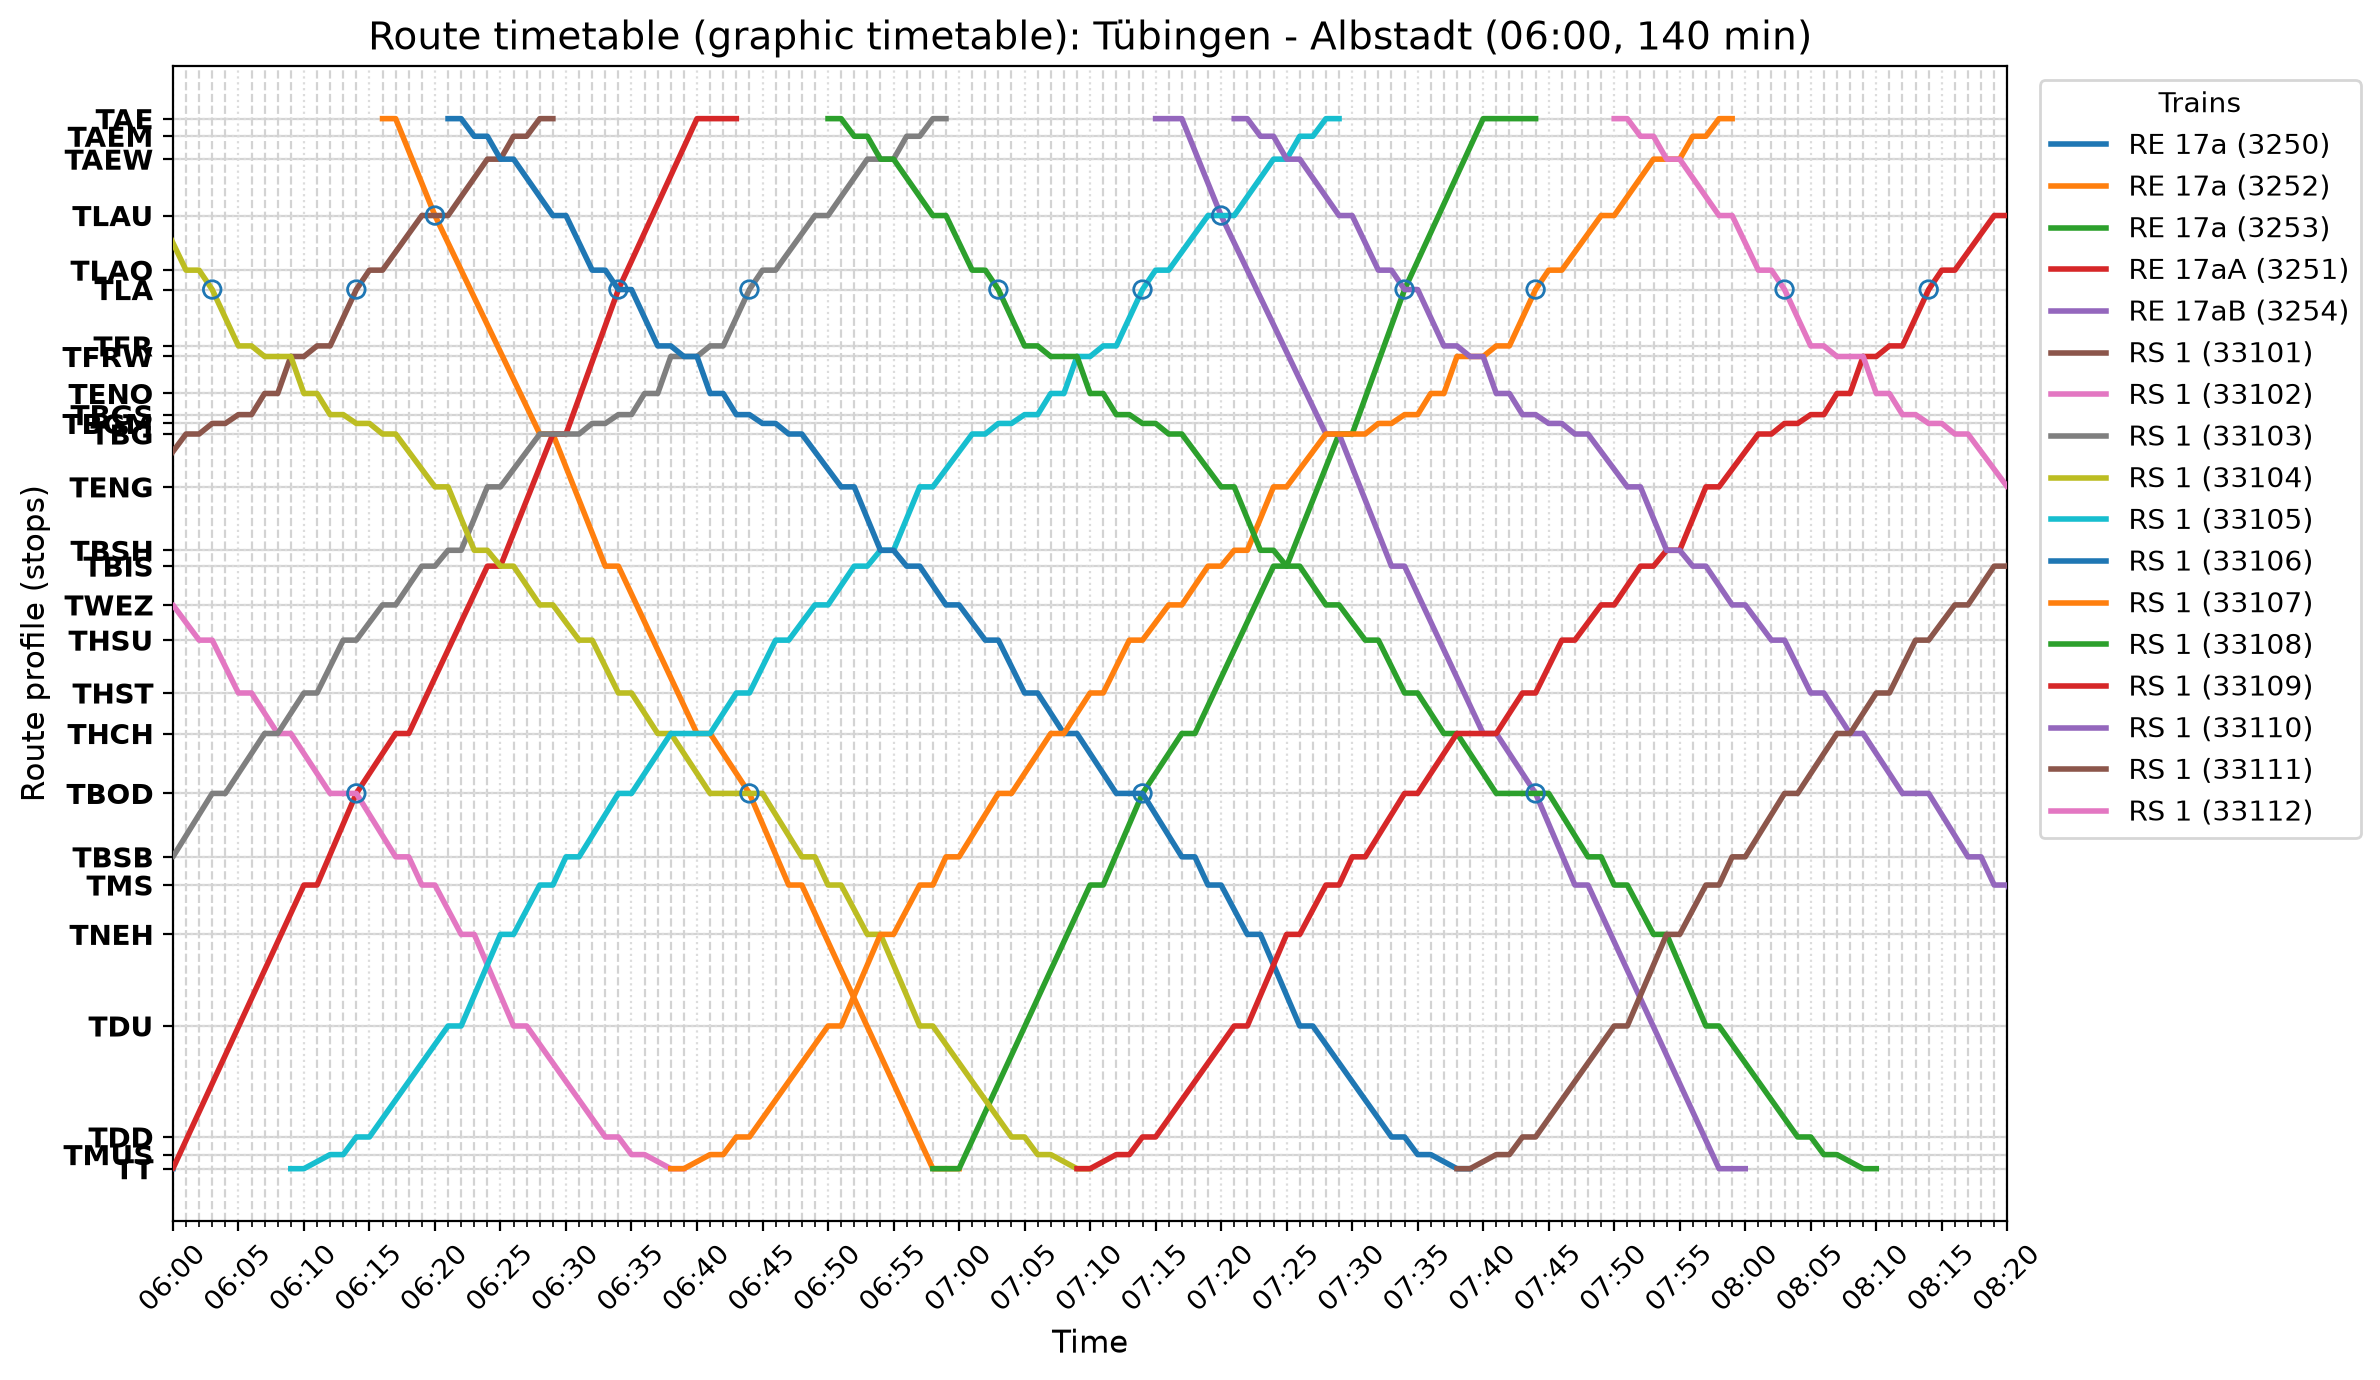
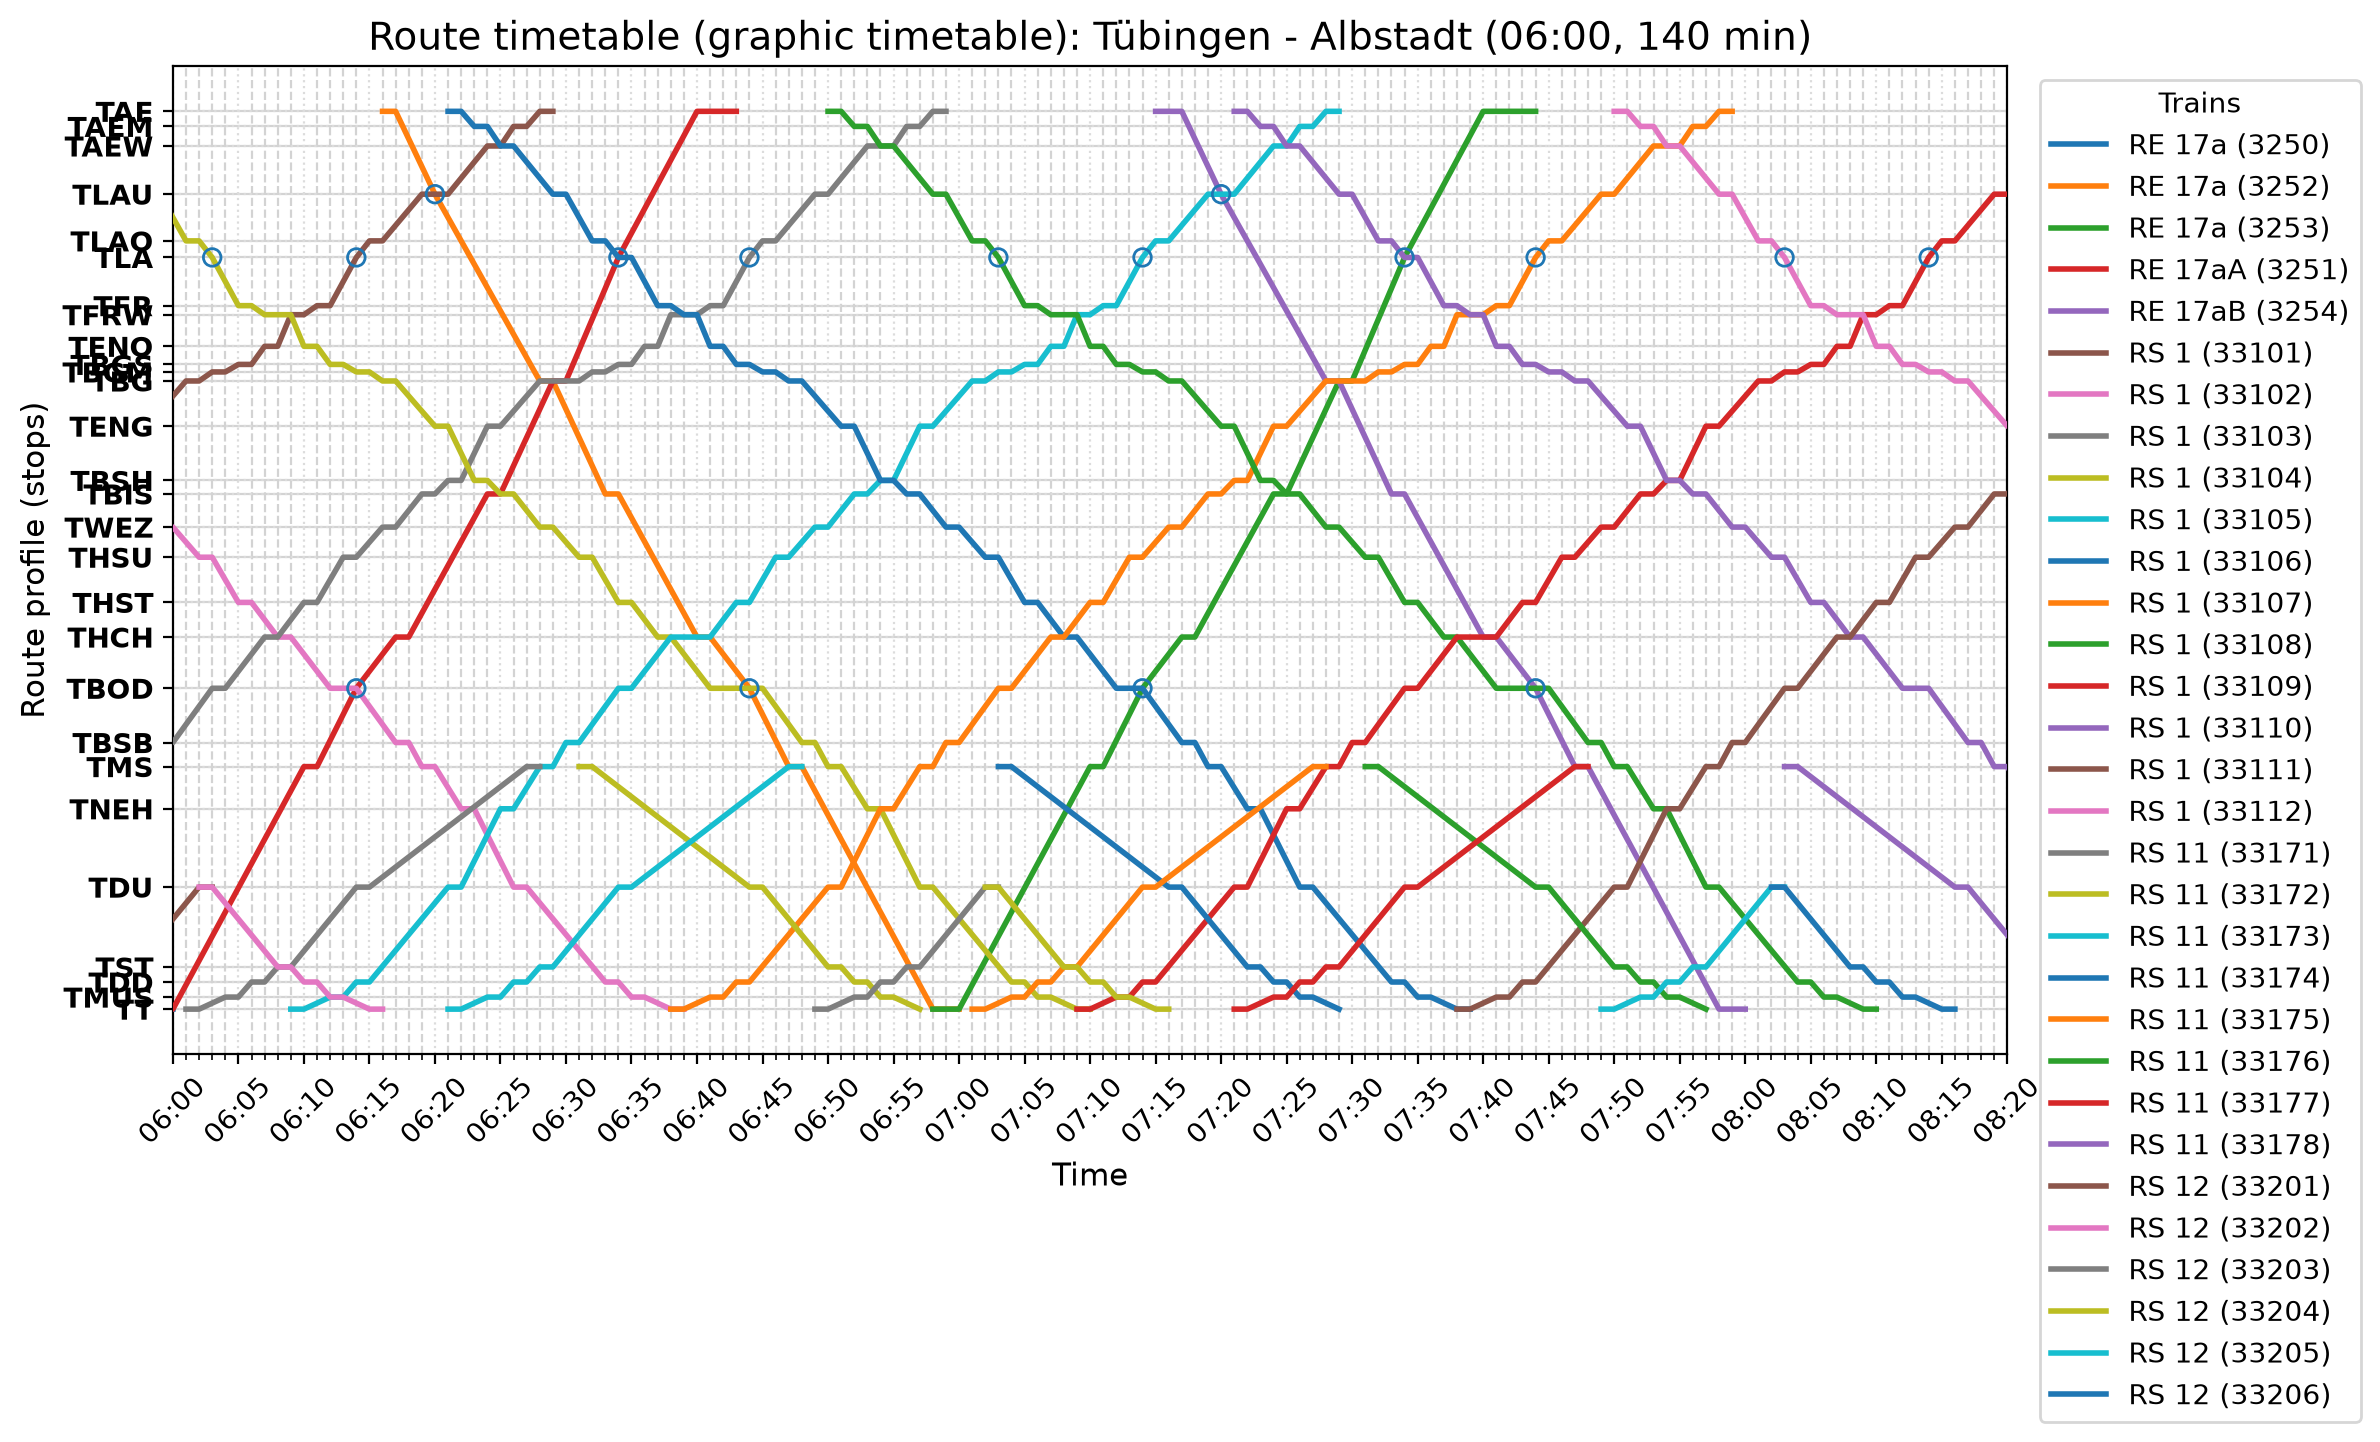
Update timetable

Changed region(s): [[0.0, 0.0, 0.995, 0.9971], [0.4353, 0.9659, 0.4664, 0.9971]]

diff --git a/RSNA.md b/RSNA.md
@@ -527,7 +527,7 @@ TT GL. 6 an :48:27
 ```
 TAT -> TAE (1min) -> TAEM (1min) -> TAEW (1min) -> TALT (3min) -> TALO (2min, knapp) -> TFR (3min) -> TFRW (1min) -> TENO (1min) -> TBGS (1min) -> TBGM (1min) -> TBG (1min) -> TENG (3min) -> TBSH (2min) -> TBIS (1min) -> TWEZ (2min) -> THSU (2min) -> THST (2min knapp) -> THCH (2min) -> TBOD (3min) -> TBSB (3min) -> TMS (1min knapp, +6s) -> TNEH (2min) -> TDU (3min knapp) -> TST (5min) -> TDD (1min) -> TMUS (1min) -> TT (1min reicht für 5/11/6, für rest eher 2min)
 ```
-
+----
 ## Implementation / Takt
 
 ### ZAB
@@ -571,6 +571,34 @@ TAT -> TAE (1min) -> TAEM (1min) -> TAEW (1min) -> TALT (3min) -> TALO (2min, kn
 - Kreuzung THCH mit RS 1
 - Überholung RE in TBOD (**extend +3**)
 - **Ending setzen, platform in TT change (6?)**
+----
+#### RS 11 (nach TMS)
+- in TT ab um :02 bzw. :22 (Contract start :01, :21)
+##### RS 11 :01
+- Origin TTBW (bzw. später kann aus S1 gewendet werden die :39 ankommt!!)
+- Ending TMSA (bzw. später Wende auf S11, dann Gleiswechsel auf Gl. 1 bei Ankunft!)
+
+##### RS 11 :21
+- Origin TTBW (bzw. später Wende aus S1 die :10 ankommt?)
+- Ending TMSA (sollte in die Abstellung um Gleise frei zu machen)
+
+#### RS 11 (nach TT)
+- in TMS ab um :04 bzw. :32 (Contract :03, :31)
+##### RS 11 :03
+- Origin TMSA (lange Wartezeit sonst davor)
+- Ending TTBW (bzw. später dann Wende auf S1 um :38)
+##### RS 11 :31
+- Origin TMSA (oder Kurzwende auf Gl. 1 auf S11 mit Abfahrt :01!)
+- Ending TTBW (bzw. später Wende auf RS 1 mit Abfahrt :09)
+---
+### RS 12 (nach RTS)
+- Abfahrt in TT immer :50 (Contract :49)
+- Origin TTBW (for now, aus ggf. Leerfahrt von TTG und S31? c:)
+- Ending ist tough weil noch sonst keine Contracts, sollte aber eig einfach Wenden (sehr wahrscheinlich aber auf S2)
+
+### RS 12 (nach TT)
+- Abfahrt in RTS immer :15 (Contract: 14)
+- Ending TTBW (ggf. weiter als Leerfahrt nach TTG und dann S31?)
 
 #### RE 17a (nach Albstadt)
 
